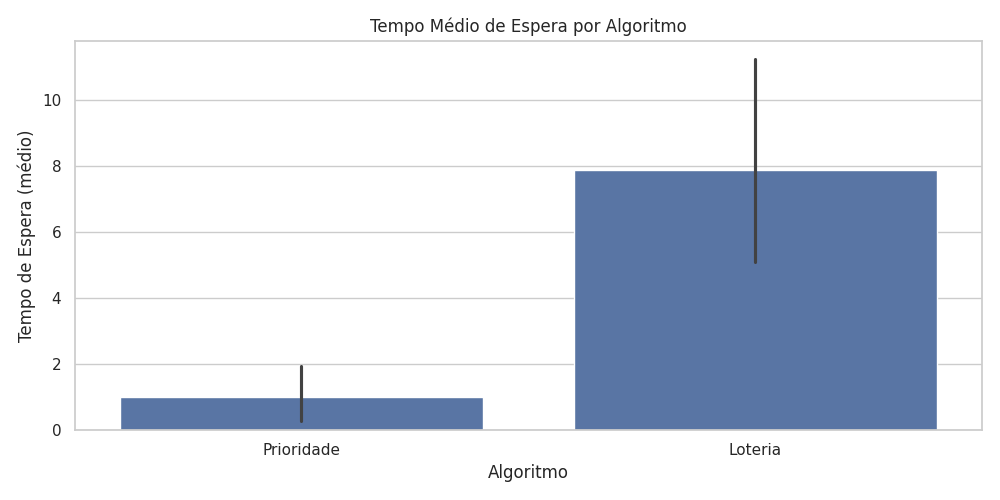
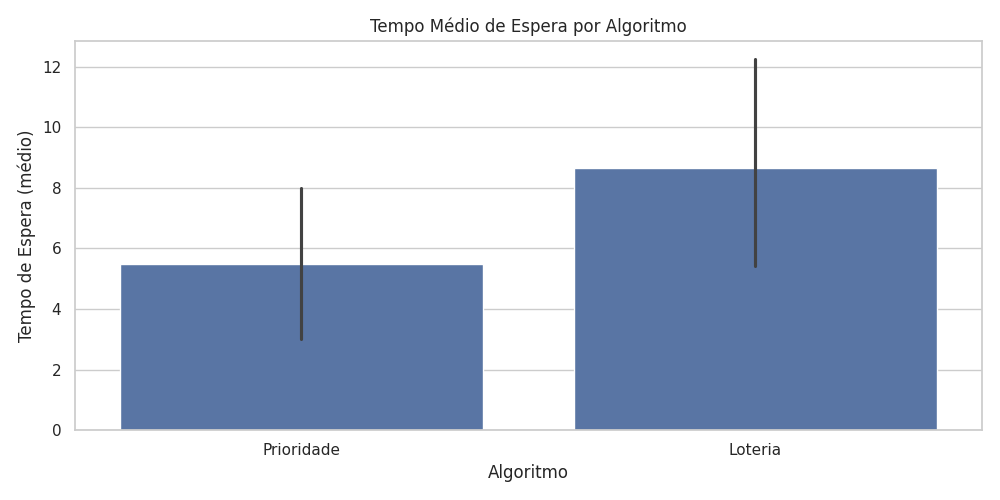
finalizando o trabalho

diff --git a/results_plot.py b/results_plot.py
@@ -2,8 +2,9 @@ import pandas as pd
 import matplotlib.pyplot as plt
 import matplotlib.patches as mpatches
 import seaborn as sns
+from matplotlib.patches import Patch
 
-sns.set(style="whitegrid")
+sns.set_theme(style="whitegrid")
 
 df = pd.read_csv('results/task_log.csv')
 
@@ -11,8 +12,6 @@ df = pd.read_csv('results/task_log.csv')
 df['WaitTime'] = df['StartTime'] - df['GenerationTime']
 df['Turnaround'] = df['EndTime'] - df['GenerationTime']
 df['Duration'] = df['EndTime'] - df['StartTime']
-
-df = df.sort_values(by='StartTime')
 
 # Função para calcular coeficiente de variação
 def coef_var(x):
@@ -46,22 +45,24 @@ grouped = grouped.rename(columns={
 
 print("\n=== Estatísticas detalhadas por algoritmo ===")
 print(grouped)
-output_csv = 'results/task_metrics_summary.csv'
+output_csv = 'results/task_metrics_seed1024.csv'
 grouped.to_csv(output_csv)
 
 
-# ==== Gráfico de Gantt das Execuções das Tarefas ====
+# ==== Gráfico de Gantt original ====
 fig, ax = plt.subplots(figsize=(12, 6))
 for idx, row in df.iterrows():
     ax.broken_barh([(row['StartTime'], row['Duration'])], (row['ID'] - 0.4, 0.8),
                    facecolors='tab:blue' if row['Algorithm'] == 'Loteria' else 'tab:orange')
+    ax.text(x=row['StartTime'] + row['Duration'] / 2,
+            y=row['ID'] + 0.4,
+            s=str(int(row['Priority'])),
+            ha='center', va='bottom', fontsize=8, color='black')
 ax.set_yticks(sorted(df['ID'].unique()))
 ax.set_xlabel('Tempo')
 ax.set_ylabel('Tarefa (ID)')
-ax.set_yticks(df['ID'].unique())
 ax.set_title('Gráfico de Gantt das Execuções das Tarefas')
 ax.grid(True)
-
 legend_handles = [
     mpatches.Patch(color='tab:blue', label='Loteria'),
     mpatches.Patch(color='tab:orange', label='Prioridade')
@@ -69,6 +70,66 @@ legend_handles = [
 ax.legend(handles=legend_handles)
 plt.tight_layout()
 plt.savefig('results/images/gantt_chart.png')
+plt.close()
+plt.show()
+
+
+# ==== Gráfico de Gantt para o Algoritmo de Prioridade ====
+df_priority = df[df['Algorithm'] == 'Prioridade'].copy().sort_values('Priority')
+fig, ax = plt.subplots(figsize=(14, 8))
+for idx, row in df_priority.iterrows():
+    # Tempo de espera 
+    ax.broken_barh([(row['GenerationTime'], row['WaitTime'])], (row['ID'] - 0.4, 0.8),
+                   facecolors='lightgray', edgecolor='gray')
+    # Tempo de execução 
+    ax.broken_barh([(row['StartTime'], row['Duration'])], (row['ID'] - 0.4, 0.8),
+                   facecolors='tab:orange', edgecolor='black', linewidth=0.5)
+    ax.text(x=row['StartTime'] + row['Duration'] / 2, 
+            y=row['ID'], 
+            s=f"P{int(row['Priority'])}",
+            ha='center', va='center', fontsize=9, color='white', fontweight='bold')
+ax.set_yticks(df_priority['ID'].unique())
+ax.set_xlabel('Tempo', fontsize=12)
+ax.set_ylabel('Tarefa (ID)', fontsize=12)
+ax.set_title('Gráfico de Gantt do Algoritmo de Prioridade (Ordenado por Prioridade)', fontsize=14)
+ax.grid(axis='x', linestyle='--')
+legend_elements = [
+    Patch(facecolor='lightgray', label='Tempo de Espera'),
+    Patch(facecolor='tab:orange', label='Tempo de Execução')
+]
+ax.legend(handles=legend_elements, loc='upper left')
+plt.tight_layout()
+plt.savefig('results/images/gantt_chart_priority.png')
+plt.close()
+plt.show()
+
+# ==== Gráfico de Gantt para o Algoritmo de Loteria (Ordem de Execução) ====
+df_lottery = df[df['Algorithm'] == 'Loteria'].copy()
+fig, ax = plt.subplots(figsize=(14, 8))
+for idx, row in df_lottery.iterrows():
+    # Tempo de espera 
+    ax.broken_barh([(row['GenerationTime'], row['WaitTime'])], (row['ID'] - 0.4, 0.8),
+                   facecolors='lightgray', edgecolor='gray')
+    # Tempo de execução
+    ax.broken_barh([(row['StartTime'], row['Duration'])], (row['ID'] - 0.4, 0.8),
+                   facecolors='tab:blue', edgecolor='black', linewidth=0.5)
+    ax.text(x=row['StartTime'] + row['Duration'] / 2, 
+            y=row['ID'], 
+            s=f"P{int(row['Priority'])}",
+            ha='center', va='center', fontsize=9, color='white', fontweight='bold')
+ax.set_yticks(df_lottery['ID'].unique())
+ax.set_xlabel('Tempo', fontsize=12)
+ax.set_ylabel('Tarefa (ID)', fontsize=12)
+ax.set_title('Gráfico de Gantt do Algoritmo de Loteria (Ordem de Execução)', fontsize=14)
+ax.grid(axis='x', linestyle='--')
+legend_elements = [
+    Patch(facecolor='lightgray', label='Tempo de Espera'),
+    Patch(facecolor='tab:blue', label='Tempo de Execução')
+]
+ax.legend(handles=legend_elements, loc='upper left')
+plt.tight_layout()
+plt.savefig('results/images/gantt_chart_lottery.png')
+plt.close()
 plt.show()
 
 
@@ -80,19 +141,10 @@ plt.ylabel('Tempo de Espera (médio)')
 plt.xlabel('Algoritmo')
 plt.tight_layout()
 plt.savefig('results/images/average_wait_time.png')
+plt.close()
 plt.show()
 
-# ==== Boxplot: distribuição do turnaround ====
-plt.figure(figsize=(10, 5))
-sns.boxplot(data=df, x='Algorithm', y='Turnaround')
-plt.title('Distribuição de Turnaround por Algoritmo')
-plt.ylabel('Tempo de Turnaround')
-plt.xlabel('Algoritmo')
-plt.tight_layout()
-plt.savefig('results/images/turnaround_distribution.png')
-plt.show()
-
-# ==== 3. Histograma do tempo de espera ====
+# ==== Histograma do tempo de espera ====
 plt.figure(figsize=(10, 5))
 sns.histplot(data=df, x='WaitTime', hue='Algorithm', multiple='stack', bins=20)
 plt.title('Distribuição do Tempo de Espera por Algoritmo')
@@ -100,24 +152,18 @@ plt.xlabel('Tempo de Espera')
 plt.ylabel('Número de Tarefas')
 plt.tight_layout()
 plt.savefig('results/images/wait_time_distribution.png')
+plt.close()
 plt.show()
 
-# ==== Scatter plot: geração x início da execução ====
+# ==== Scatter plot: geração x início da execução com linha de melhor caso ====
 plt.figure(figsize=(10, 5))
 sns.scatterplot(data=df, x='GenerationTime', y='StartTime', hue='Algorithm', style='Algorithm', s=100)
 plt.title('Tempo de Geração vs Início da Execução')
 plt.xlabel('Tempo de Geração')
 plt.ylabel('Início da Execução')
+max_val = max(df['GenerationTime'].max(), df['StartTime'].max())
+plt.plot([0, max_val], [0, max_val], 'k-', lw=2, label='Melhor Caso')
+plt.legend()
 plt.tight_layout()
 plt.savefig('results/images/generation_vs_start_time.png')
-plt.show()
-
-# ==== Violinplot: distribuição detalhada do turnaround ====
-plt.figure(figsize=(10, 5))
-sns.violinplot(data=df, x='Algorithm', y='Turnaround', hue='Algorithm', inner='quartile', palette="Set2")
-plt.title('Distribuição (Violin) do Turnaround por Algoritmo')
-plt.ylabel('Turnaround')
-plt.xlabel('Algoritmo')
-plt.tight_layout()
-plt.savefig('results/images/turnaround_distribution.png')
 plt.show()

diff --git a/seed_comparison_plotter.py b/seed_comparison_plotter.py
@@ -1,0 +1,41 @@
+import pandas as pd
+import matplotlib.pyplot as plt
+import seaborn as sns
+
+sns.set_theme(style="whitegrid")
+
+seed_files = {
+    'Seed 42': 'results/task_metrics_seed42.csv',
+    'Seed 666': 'results/task_metrics_seed666.csv',
+    'Seed 1024': 'results/task_metrics_seed1024.csv'
+}
+
+all_metrics_df = pd.DataFrame()
+
+for seed_name, file_path in seed_files.items():
+    try:
+        temp_df = pd.read_csv(file_path, index_col=0)
+        
+        temp_df = temp_df.reset_index()
+        
+        temp_df['Seed'] = seed_name
+        
+        all_metrics_df = pd.concat([all_metrics_df, temp_df], ignore_index=True)
+    except FileNotFoundError:
+        print(f"Aviso: O arquivo {file_path} não foi encontrado. Ignorando...")
+
+if all_metrics_df.empty:
+    print("Erro: Nenhum arquivo de métricas foi carregado. Verifique os caminhos dos arquivos.")
+else:
+    plt.figure(figsize=(12, 7))
+    sns.barplot(data=all_metrics_df, x='Algorithm', y='WaitTime_Mean', hue='Seed', palette='viridis')
+    
+    plt.title('Comparativo do Tempo Médio de Espera por Algoritmo e Seed', fontsize=16)
+    plt.xlabel('Algoritmo', fontsize=12)
+    plt.ylabel('Tempo Médio de Espera', fontsize=12)
+    plt.legend(title='Configuração de Seed')
+    
+    plt.tight_layout()
+    plt.savefig('results/images/seed_waittime.png')
+    plt.close()
+    # plt.show()

diff --git a/source/lottery_algoritm.cpp b/source/lottery_algoritm.cpp
@@ -9,10 +9,14 @@ void run_lottery_algorithm(float time_window, vector<Task> &tasks)
 
     cout << "\n=== ALGORITMO DE LOTERIA ===\n";
     
+    vector<size_t> ready_indices;
+    
     while (!tasks.empty() && current_time < time_window)
     {
-        vector<size_t> ready_indices;
-        // Limpa e reconstrói a lista de tarefas prontas a cada iteração
+        // Limpa tarefas prontas a cada iteração
+        ready_indices.clear();
+
+        // Reconstrói a lista de tarefas prontas a cada iteração
         for (size_t i = 0; i < tasks.size(); ++i)
         {
             if (tasks[i].generation_time <= current_time)
@@ -50,7 +54,9 @@ void run_lottery_algorithm(float time_window, vector<Task> &tasks)
         vector<size_t> ticket_pool;
         for (size_t idx : ready_indices)
         {
-            for (size_t j = 0; j < tasks[idx].priority; ++j)
+            size_t num_tickets = 11 - tasks[idx].priority;
+                        
+            for (size_t j = 0; j < num_tickets; ++j)
                 ticket_pool.push_back(idx);
         }
 

diff --git a/source/priority_algoritm.cpp b/source/priority_algoritm.cpp
@@ -15,10 +15,12 @@ void run_priority_algorithm(float time_window, vector<Task> &task_list)
 
     // Vetor para armazenar tarefas prontas
     vector<Task> ready_tasks;
-
+    
     // Enquanto tempo limite não atingido
-    while ((!task_list.empty()  && !task_heap.empty() ) || current_time <= time_window )
-    {
+    do 
+    {   
+        ready_tasks.clear(); // Limpa tarefas prontas a cada iteração
+        
         // Insere na heap as tarefas com tempo de aparecimento
         // menor que tempo atual e exclui da lista
         for (size_t i = 0; i < task_list.size();)
@@ -74,5 +76,5 @@ void run_priority_algorithm(float time_window, vector<Task> &task_list)
 
         // Atualiza tempo atual
         current_time = end_time;
-    }
+    } while ((!task_list.empty()  || !task_heap.empty() ) && current_time <= time_window );
 }

diff --git a/main.cpp b/main.cpp
@@ -7,7 +7,7 @@
 
 int main()
 {
-    int seed = 42;
+    int seed = 1024;
     srand(seed); 
     
     init_log_file(); 
